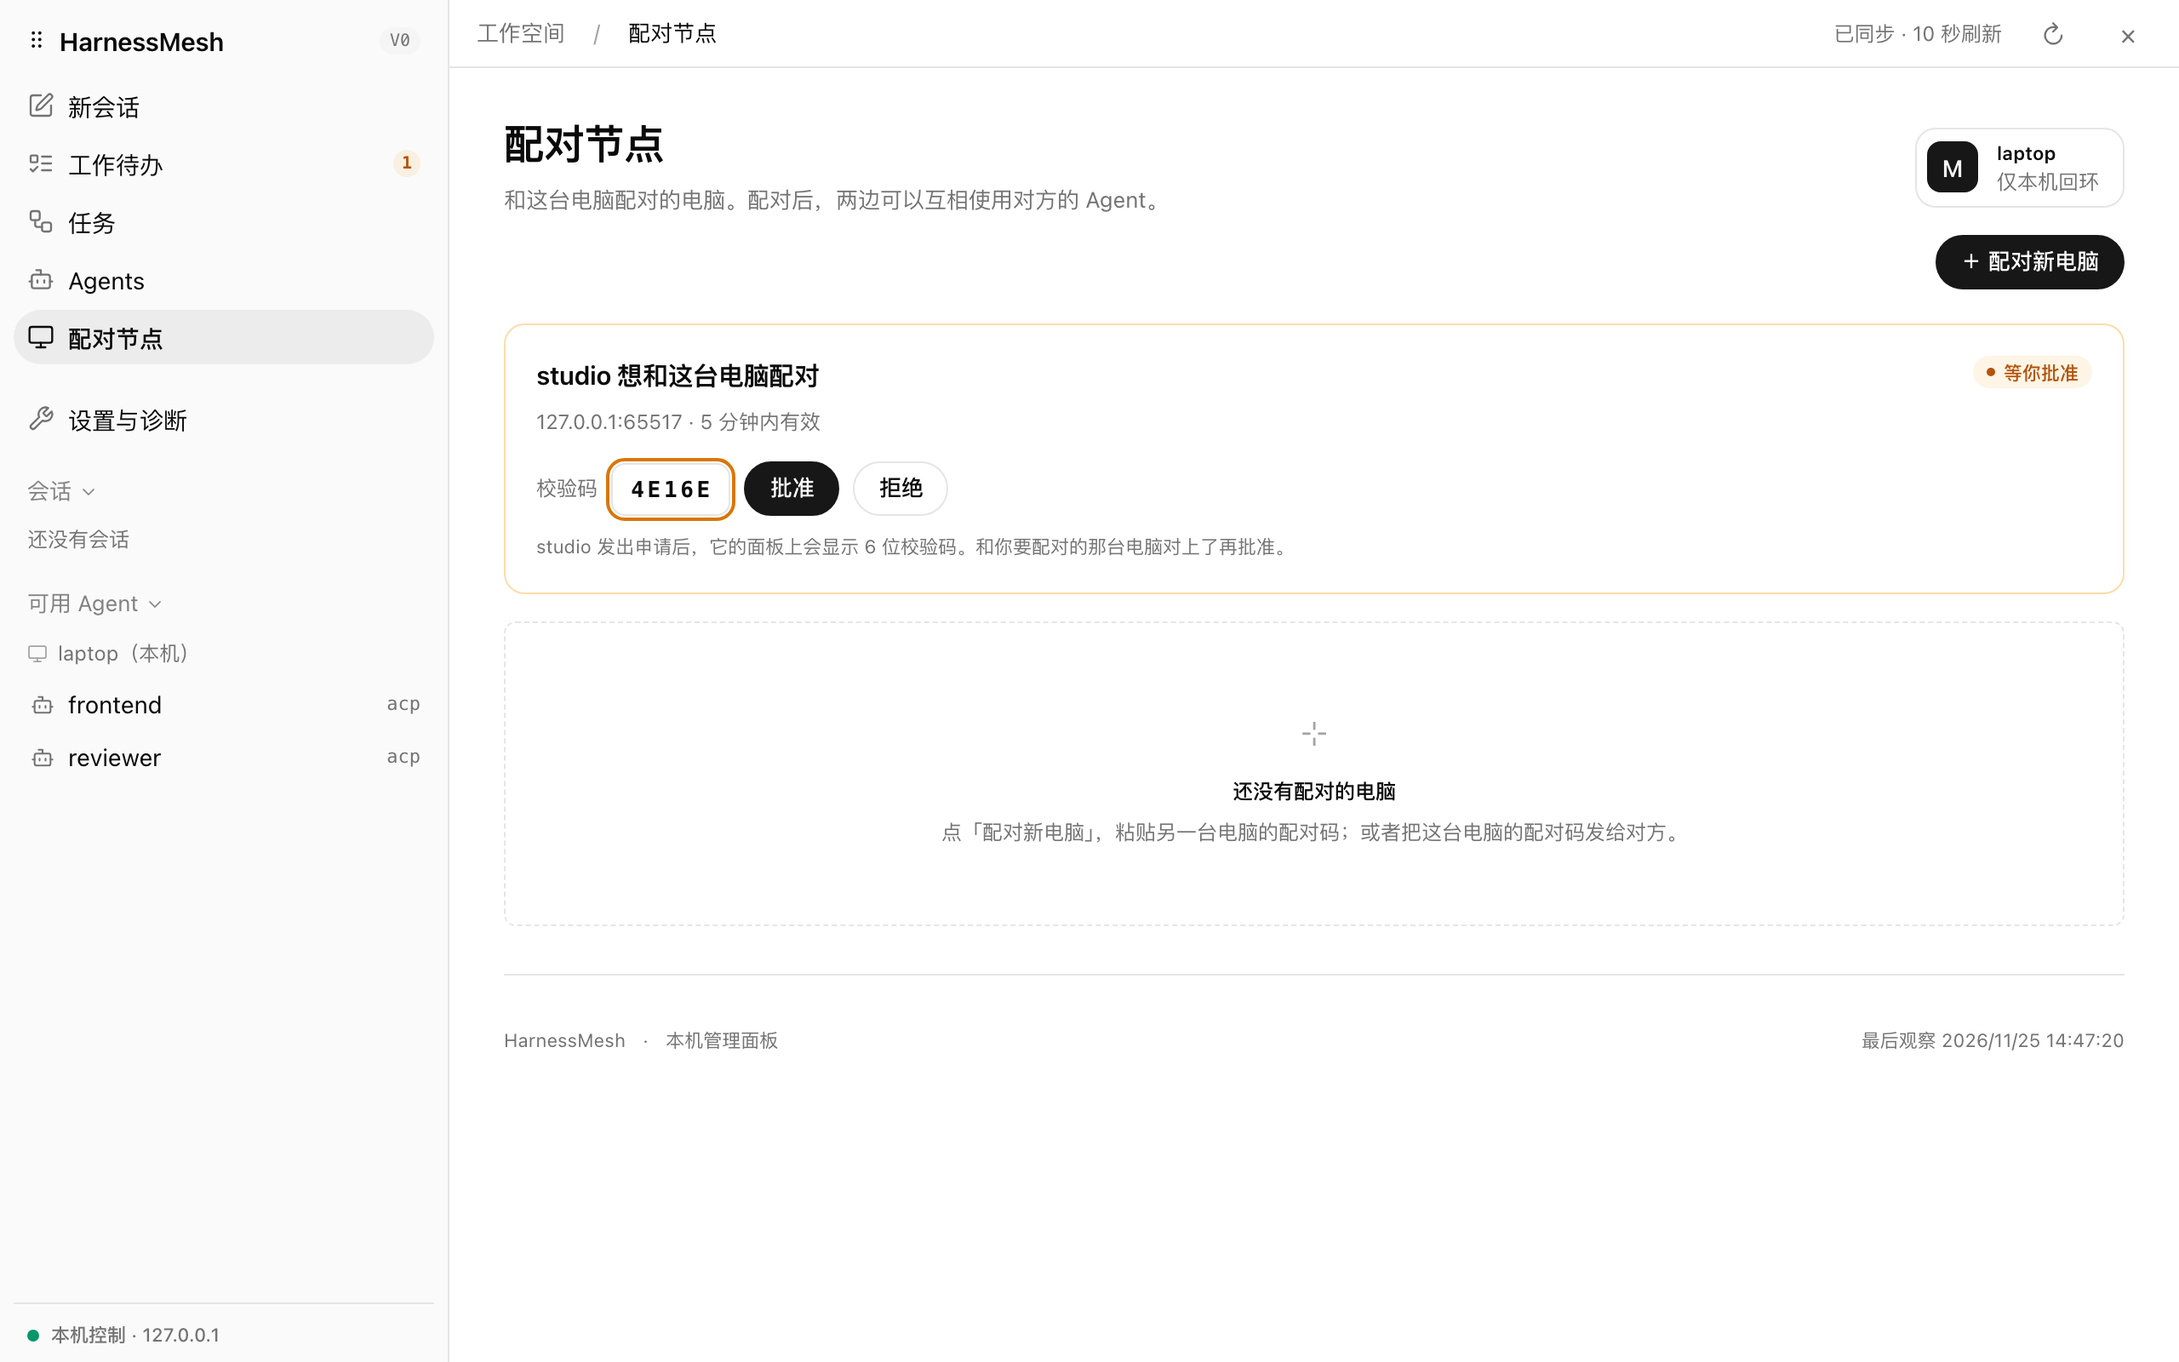
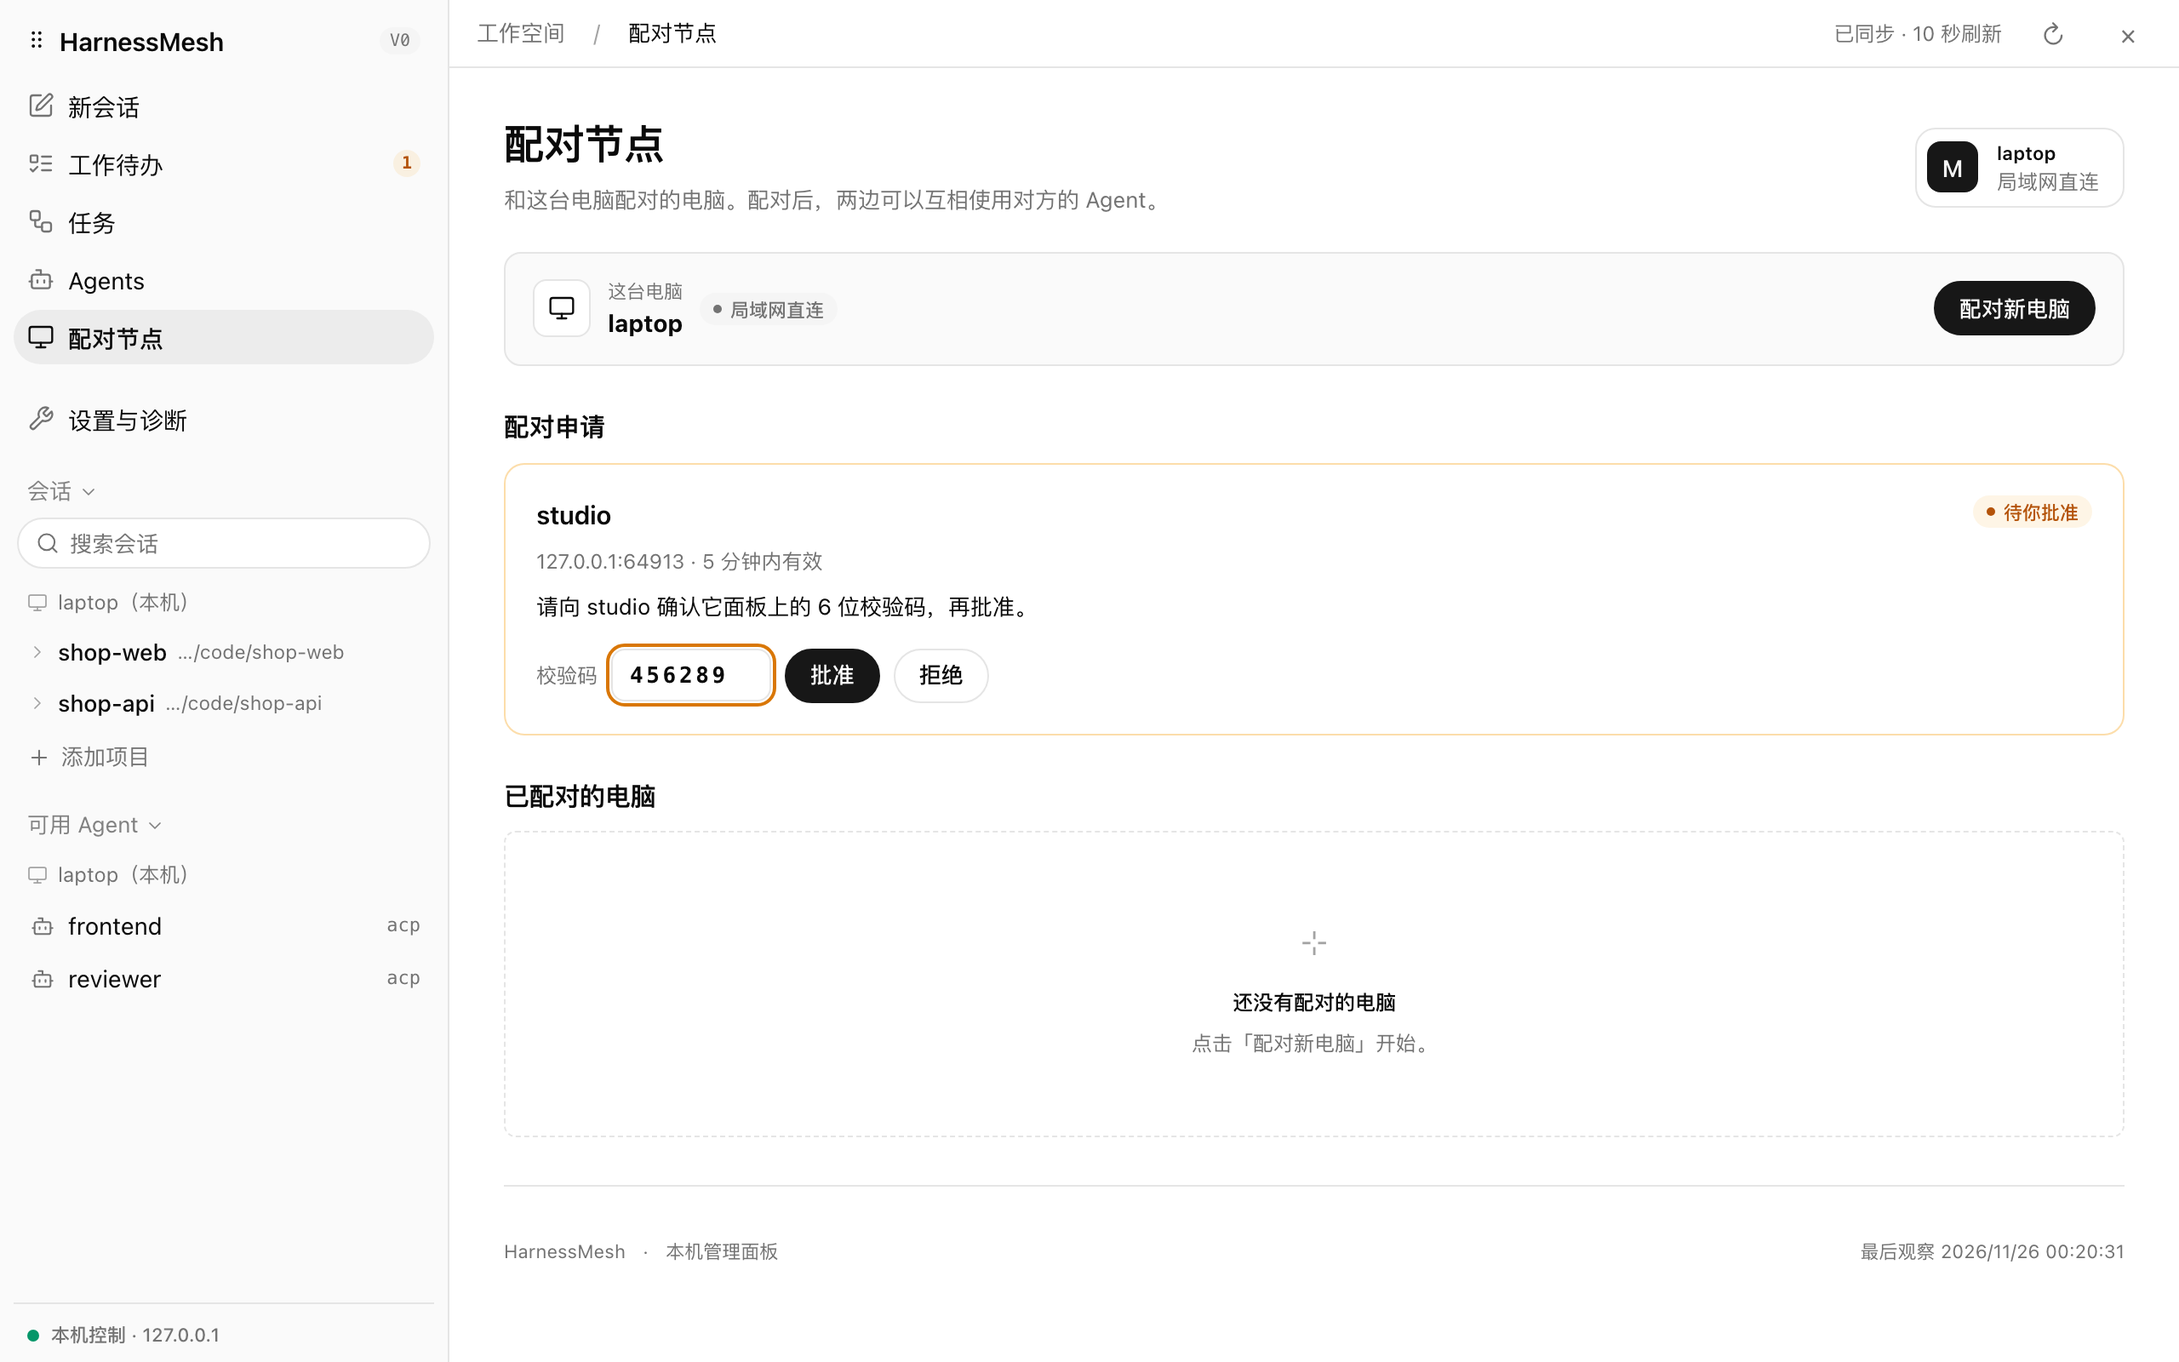
docs(readme): show direct networks and pairing nearby
Update README.md and README_CN.md for the direct network (#17) and
pairing nearby with a passcode (#19): the diagram, the network
bullet, the install table, the limits note and the docs table now
cover a LAN or VPN of your own, and a new pair of screenshots shows
pairing nearby.

Retake the six README screenshots from the current panel (projects
in the sidebar, the redesigned pairing dialog), with the same
scripted demo agent and no model calls.

The check-code and passcode boxes were too narrow for their six
characters and cut one off; widen them.

diff --git a/web/panel/panel.css b/web/panel/panel.css
@@ -1418,7 +1418,7 @@ footer{margin-top:28px}
 .pair-digits-inline{font:600 13px var(--mono);letter-spacing:.12em;padding:1px 6px;border-radius:5px;background:var(--secondary)}
 .pair-approve{display:flex;flex-wrap:wrap;align-items:center;gap:8px;margin:14px 0 0}
 .pair-check-label{display:flex;align-items:center;gap:8px;font-size:12px;color:var(--muted)}
-.pair-check{width:9ch;padding:7px 10px;border:1px solid var(--line);border-radius:8px;background:var(--background);color:var(--foreground);font:600 13px var(--mono);letter-spacing:.14em;text-transform:uppercase}
+.pair-check{width:12ch;padding:7px 10px;border:1px solid var(--line);border-radius:8px;background:var(--background);color:var(--foreground);font:600 13px var(--mono);letter-spacing:.14em;text-transform:uppercase}
 .pair-check:focus-visible{outline:2px solid var(--amber);outline-offset:1px}
 .pair-card .form-note{margin:10px 0 0}
 .pair-message{color:var(--destructive)}
@@ -1766,7 +1766,7 @@ footer{margin-top:28px}
 .pair-nearby-who{display:flex;flex-direction:column;min-width:0;font-size:13px}
 .pair-nearby-who span{font:12px/1.5 var(--mono);color:var(--muted);overflow-wrap:anywhere}
 .pair-passcode-form{display:flex;align-items:center;gap:8px}
-.pair-passcode{width:11ch;padding:7px 10px;border:1px solid var(--line);border-radius:8px;background:var(--background);color:var(--foreground);font:600 14px var(--mono);letter-spacing:.16em}
+.pair-passcode{width:14ch;padding:7px 10px;border:1px solid var(--line);border-radius:8px;background:var(--background);color:var(--foreground);font:600 14px var(--mono);letter-spacing:.16em}
 .pair-passcode:focus-visible{outline:2px solid var(--amber);outline-offset:1px}
 .pair-nearby-row .pair-message{flex-basis:100%;margin:0}
 .pair-nearby-empty{margin:0}

diff --git a/README.md b/README.md
@@ -13,7 +13,7 @@ One place to work with the coding agents on all of your own computers. HarnessMe
 - **One panel for every agent.** Start a session with any agent on this computer or a paired one, keep a multi-turn conversation, and follow its thinking, plan and tool calls as they happen. You can stop or close it at any time. Each session can switch model, mode and reasoning level between turns. Sessions are grouped by project, and the sessions your agents already have (Claude Code, Codex, OpenCode, Pi) are listed there too: open one to see its earlier conversation and keep going.
 - **Agents call each other.** Every session gets the HarnessMesh MCP server, so an agent can open a session with another agent (`mesh_send`), follow up, and read its reply (`mesh_wait`), even on another computer. Calls go at most three levels deep and never loop back to an agent already in the chain.
 - **You stay in charge.** When an agent wants to edit a file or run a command, the question comes back to whoever opened the session: 允许一次 (allow once) or 拒绝 (reject). In sessions an agent opened, they are answered automatically; set the calling computer to `confirm` and they wait for you instead.
-- **Pair a computer in two steps.** Paste the other computer's pairing code; it approves once with a six-character check code. Then both sides can use each other's agents. Revoking a pairing closes the sessions that computer opened.
+- **Pair a computer in two steps.** Paste the other computer's pairing code; it approves once with a six-character check code. On a LAN or VPN of your own it is quicker: choose the computer under 附近的电脑 (computers nearby) and type the 6-digit passcode on its screen. Then both sides can use each other's agents. Revoking a pairing closes the sessions that computer opened.
 - **Model service per agent.** Each agent can use its own login, an API key, or a custom endpoint (31 provider presets). Keys stay on the execution computer. Pi, OpenCode and DSH can select Chat Completions, Responses or Anthropic Messages for a custom endpoint. See the [model service options](docs/local-panel.md#各-agent-可选的协议).
 - **Work beyond chat.** The 工作待办 (inbox) collects whatever waits for you. One-shot tasks come with artifact checks, templates and multi-stage workflows, and you can see usage per session and per project.
 
@@ -33,6 +33,12 @@ One place to work with the coding agents on all of your own computers. HarnessMe
 |---|---|
 | ![The pairing dialog showing the check code](docs/images/pair-sent.png) | ![The incoming request with the check code typed in](docs/images/pair-approve.png) |
 
+**Pairing nearby.** On a direct network, laptop shows a 6-digit passcode while its 配对新电脑 dialog is open. On studio, the same dialog lists laptop under 附近的电脑 (computers nearby); type the passcode and the two are paired, with nothing to approve.
+
+| 1. laptop shows its passcode | 2. studio chooses laptop and types it |
+|---|---|
+| ![laptop's pairing dialog showing its 6-digit passcode](docs/images/nearby-passcode.png) | ![studio's pairing dialog listing laptop nearby, with the passcode typed in](docs/images/nearby-join.png) |
+
 **Start from any agent.** The start page lists every ready agent, with the computer it runs on.
 
 ![The start page with agents from both computers](docs/images/start.png)
@@ -49,13 +55,13 @@ flowchart LR
   subgraph B["A paired computer"]
     d2["hmesh daemon"] <-->|ACP| a2["its agents"]
   end
-  d1 <==>|"mTLS over Tailscale"| d2
+  d1 <==>|"mTLS over Tailscale<br/>or your own LAN / VPN"| d2
 ```
 
 - Each computer runs one **daemon** (`hmesh daemon start`). It starts the agents you registered and keeps sessions, tasks and their events in a local SQLite database.
 - A computer set up with **only MCP** runs the daemon too, but on 127.0.0.1 only: its agents call out, and nothing calls in.
 - The **panel** (`hmesh panel`) listens on 127.0.0.1 only and opens with a private link printed in the terminal. Owner credentials stay in the CLI process.
-- Computers talk over Tailscale with TLS 1.3 and mutual authentication. Each side pins the other's certificate fingerprint. No SSH or cloud relay is needed.
+- Computers talk over Tailscale, or directly on a LAN or VPN of your own, with TLS 1.3 and mutual authentication. Each side pins the other's certificate fingerprint. No SSH or cloud relay is needed. On a direct network, a computer with pairing open announces itself to computers nearby over mDNS (`_hmesh._tcp`).
 
 ## Get started
 
@@ -73,7 +79,7 @@ Every computer runs the same `hmesh` program, set up one of two ways:
 |---|---|---|
 | Your agents here (Claude Code, Codex, …) call agents on other computers | ✓ | ✓ |
 | Shares this computer's agents with paired computers | — | ✓ |
-| Other computers can connect to it | No | Yes, over Tailscale |
+| Other computers can connect to it | No | Yes, over Tailscale or a direct network |
 | Needs an ACP agent installed here | No | Yes |
 
 Use only MCP on a laptop that just hands work to a stronger machine; use full on the machines that do the work.
@@ -163,7 +169,7 @@ On a computer set up with `hmesh setup`, the MCP server starts the daemon when i
 - **Per-computer access mode.** Each paired computer is either `auto` (its sessions start right away) or `confirm` (you approve first): `hmesh peers access <peer> confirm`.
 - **Keys stay put.** Model keys never leave the agent's computer and are not shown again after saving. HarnessMesh does not read agents' own credential files.
 
-**Limits.** Agents run as your user. If you allow an agent to run shell commands, it can do anything you can on that computer, including using HarnessMesh as the owner. The six-character check code guards against approving the wrong request, not against a determined attacker on your tailnet: when it matters, compare the full fingerprint with `hmesh pair approve --expect-fingerprint`. Details are in [security](docs/security.md).
+**Limits.** Agents run as your user. If you allow an agent to run shell commands, it can do anything you can on that computer, including using HarnessMesh as the owner. The six-character check code guards against approving the wrong request, not against a determined attacker on the same network (your tailnet or LAN): when it matters, compare the full fingerprint with `hmesh pair approve --expect-fingerprint`. Details are in [security](docs/security.md).
 
 ## Documentation
 
@@ -171,7 +177,7 @@ On a computer set up with `hmesh setup`, the MCP server starts the daemon when i
 |---|---|
 | The panel, page by page | [docs/local-panel.md](docs/local-panel.md) |
 | Agents calling agents (MCP tools, limits, manual setup) | [docs/mcp.md](docs/mcp.md) |
-| Two computers over Tailscale | [docs/quickstart-tailnet.md](docs/quickstart-tailnet.md) |
+| Two computers over Tailscale, or directly on a LAN or VPN | [docs/quickstart-tailnet.md](docs/quickstart-tailnet.md) |
 | Command-line walkthrough on one computer | [docs/quickstart-v0.md](docs/quickstart-v0.md) |
 | Security model | [docs/security.md](docs/security.md) |
 | Tasks, templates, workflows, usage and budgets | [docs/development-workflows.md](docs/development-workflows.md) |

diff --git a/README_CN.md b/README_CN.md
@@ -13,7 +13,7 @@
 - **一个面板用所有 Agent。** 和本机或配对电脑上的任意 Agent 开会话、多轮对话，实时看到它的思考、计划和工具调用，随时可以停下或关闭。每一轮之间可以切换模型、模式和推理强度。会话按项目分组，Agent 自己已有的会话（Claude Code、Codex、OpenCode、Pi）也列在里面，点开就能看到之前的对话并接着聊。
 - **Agent 互相调用。** 每个会话都自带 HarnessMesh 的 MCP 服务器，Agent 可以和另一个 Agent 开会话（`mesh_send`）、追问、拿回答复（`mesh_wait`），对方在另一台电脑上也一样。调用最多三层，也不会绕回调用链上已有的 Agent。
 - **你说了算。** Agent 要改文件或执行命令时，问题会回到打开这个会话的人那里：允许一次，或者拒绝。由 Agent 打开的会话自动允许；把发起调用的电脑设为 `confirm`，就改成等你回答。
-- **两步配好一台电脑。** 粘贴对方的配对码，对方输入 6 位校验码批准一次，两边就都能用对方的 Agent。撤销配对会关掉对方打开的会话。
+- **两步配好一台电脑。** 粘贴对方的配对码，对方输入 6 位校验码批准一次，两边就都能用对方的 Agent。在自己的局域网或 VPN 里更省事：在「附近的电脑」里选中对方，输入它屏幕上的 6 位口令就行。撤销配对会关掉对方打开的会话。
 - **每个 Agent 单独配模型服务。** 用 Agent 自己的登录、一个 API key，或者自定义地址（带 31 个服务商预设）。Key 保留在执行端。Pi、OpenCode 和 DSH 可为自定义地址选择 Chat Completions、Responses 或 Anthropic Messages。[模型服务配置](docs/local-panel.md#各-agent-可选的协议)
 - **不止聊天。** 「工作待办」汇总所有等你处理的事。还有一次性任务（带产物核验）、任务模板、多阶段工作流，以及按会话、按项目的用量统计。
 
@@ -33,6 +33,12 @@
 |---|---|
 | ![显示校验码的配对弹窗](docs/images/pair-sent.png) | ![填好校验码的配对申请](docs/images/pair-approve.png) |
 
+**附近的电脑。** 直连网络里，laptop 打开「配对新电脑」时会显示一个 6 位口令；studio 的同一个弹窗在「附近的电脑」里列出 laptop，输入口令就配好了，谁都不用再批准。
+
+| 1. laptop 显示口令 | 2. studio 选中 laptop，输入口令 |
+|---|---|
+| ![laptop 的配对弹窗显示 6 位口令](docs/images/nearby-passcode.png) | ![studio 的配对弹窗在附近的电脑里列出 laptop，填好口令](docs/images/nearby-join.png) |
+
 **从任意 Agent 开始。** 首页列出所有可用的 Agent，并标出它在哪台电脑上。
 
 ![首页列出两台电脑上的 Agent](docs/images/start.png)
@@ -49,13 +55,13 @@ flowchart LR
   subgraph B["配对的电脑"]
     d2["hmesh daemon"] <-->|ACP| a2["它的 Agent"]
   end
-  d1 <==>|"经 Tailscale 的 mTLS"| d2
+  d1 <==>|"mTLS：经 Tailscale<br/>或自己的局域网 / VPN"| d2
 ```
 
 - 每台电脑运行一个 **daemon**（`hmesh daemon start`），由它启动你登记的 Agent，并把会话、任务和事件存在本机的 SQLite 数据库里。
 - **只装 MCP** 的电脑也跑 daemon，但只监听 127.0.0.1：它的 Agent 往外调用，没有任何东西能调用进来。
 - **面板**（`hmesh panel`）只监听 127.0.0.1，用终端里打印的私有链接打开。本机 owner 凭据只留在 CLI 进程里。
-- 电脑之间经 Tailscale 通信，使用 TLS 1.3 双向认证，两边都固定对方的证书指纹。不需要 SSH，也不经过云端中转。
+- 电脑之间经 Tailscale 通信，或者在自己的局域网、VPN 里直连，都使用 TLS 1.3 双向认证，两边都固定对方的证书指纹。不需要 SSH，也不经过云端中转。直连网络里，打开了配对的电脑会用 mDNS（`_hmesh._tcp`）让附近的电脑看到它。
 
 ## 开始使用
 
@@ -73,7 +79,7 @@ flowchart LR
 |---|---|---|
 | 这台电脑上的 Agent（Claude Code、Codex 等）调用别的电脑上的 Agent | ✓ | ✓ |
 | 把这台电脑的 Agent 共享给配对的电脑 | — | ✓ |
-| 别的电脑能连进来 | 不能 | 能，经 Tailscale |
+| 别的电脑能连进来 | 不能 | 能，经 Tailscale 或直连网络 |
 | 需要本机装 ACP Agent | 不需要 | 需要 |
 
 只负责派活的笔记本用「只装 MCP」，真正干活的机器用「完整安装」。
@@ -163,7 +169,7 @@ tool_timeout_sec = 660
 - **按电脑设访问模式。** 每台配对电脑可以是 `auto`（它开的会话直接开始）或 `confirm`（先由你批准）：`hmesh peers access <peer> confirm`。
 - **key 不离开本机。** 模型 key 不会离开 Agent 所在的电脑，保存后不再显示；HarnessMesh 不读 Agent 自己的凭据文件。
 
-**限制。** Agent 以你的用户身份运行。允许它执行 shell 命令后，它能做你在这台电脑上能做的任何事，包括以 owner 身份使用 HarnessMesh。6 位校验码防的是批准错申请，挡不住 Tailnet 里有备而来的攻击者；要紧的时候，用 `hmesh pair approve --expect-fingerprint` 核对完整指纹。详见 [安全说明](docs/security.md)。
+**限制。** Agent 以你的用户身份运行。允许它执行 shell 命令后，它能做你在这台电脑上能做的任何事，包括以 owner 身份使用 HarnessMesh。6 位校验码防的是批准错申请，挡不住同一网络（Tailnet 或局域网）里有备而来的攻击者；要紧的时候，用 `hmesh pair approve --expect-fingerprint` 核对完整指纹。详见 [安全说明](docs/security.md)。
 
 ## 文档
 
@@ -171,7 +177,7 @@ tool_timeout_sec = 660
 |---|---|
 | 面板逐页说明 | [docs/local-panel.md](docs/local-panel.md) |
 | Agent 互相调用（MCP 工具、限制、手动接入） | [docs/mcp.md](docs/mcp.md) |
-| 两台电脑经 Tailscale 连接 | [docs/quickstart-tailnet.md](docs/quickstart-tailnet.md) |
+| 两台电脑经 Tailscale 或局域网直连 | [docs/quickstart-tailnet.md](docs/quickstart-tailnet.md) |
 | 单机命令行演练 | [docs/quickstart-v0.md](docs/quickstart-v0.md) |
 | 安全模型 | [docs/security.md](docs/security.md) |
 | 任务、模板、工作流、用量和预算 | [docs/development-workflows.md](docs/development-workflows.md) |
